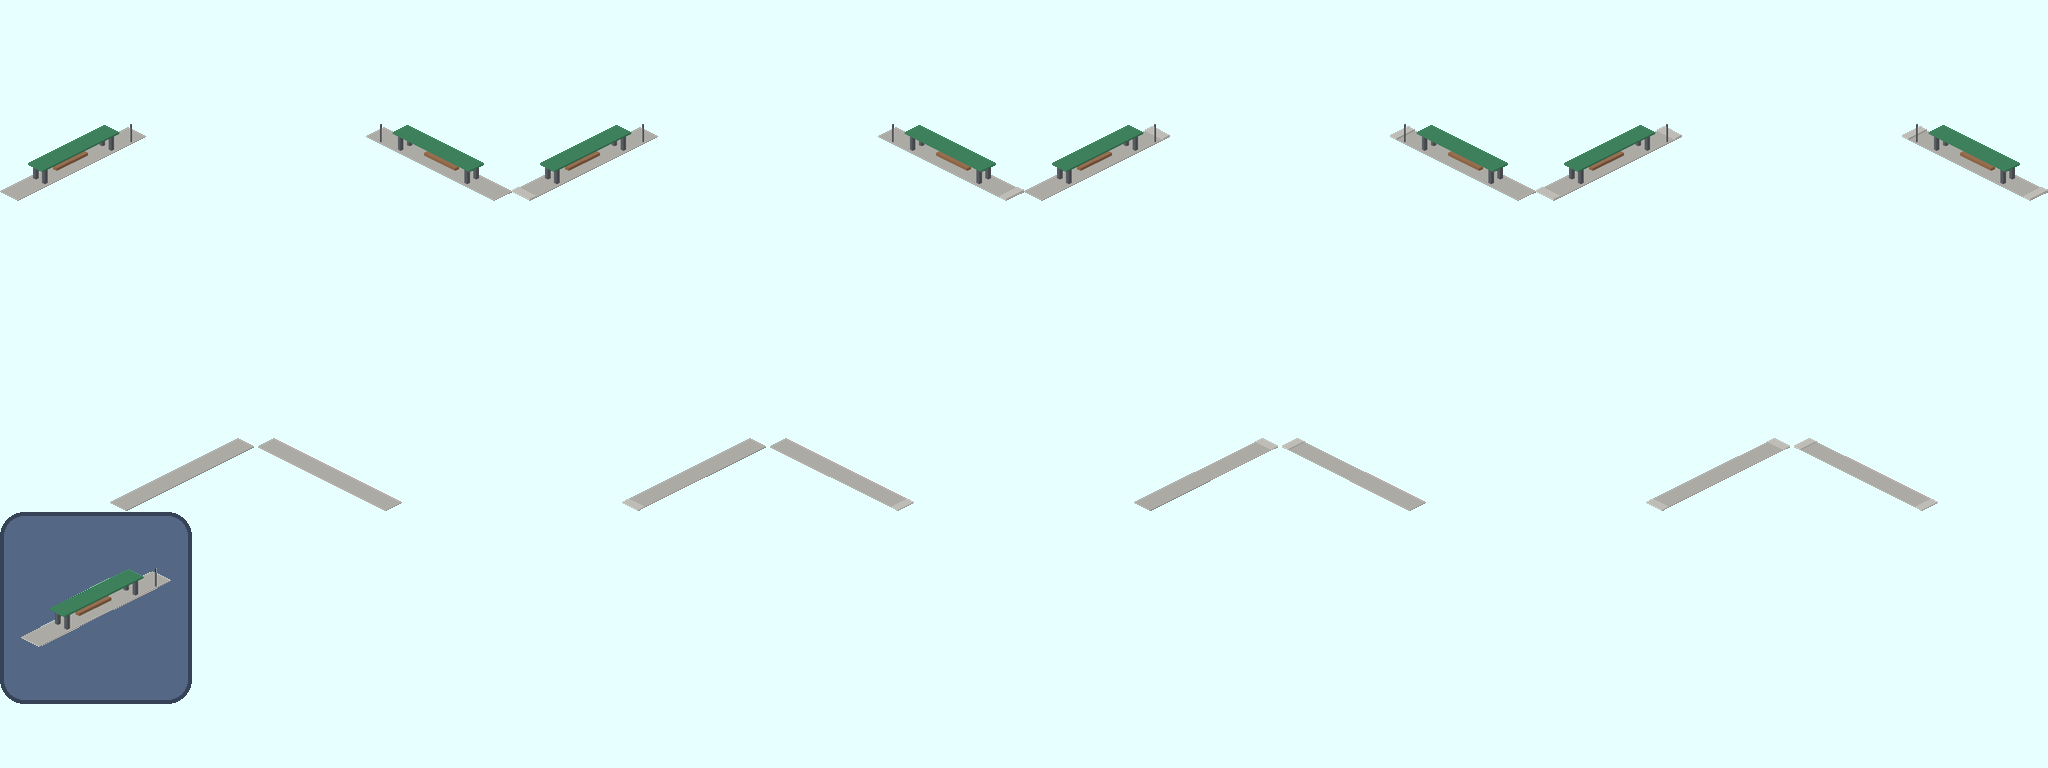
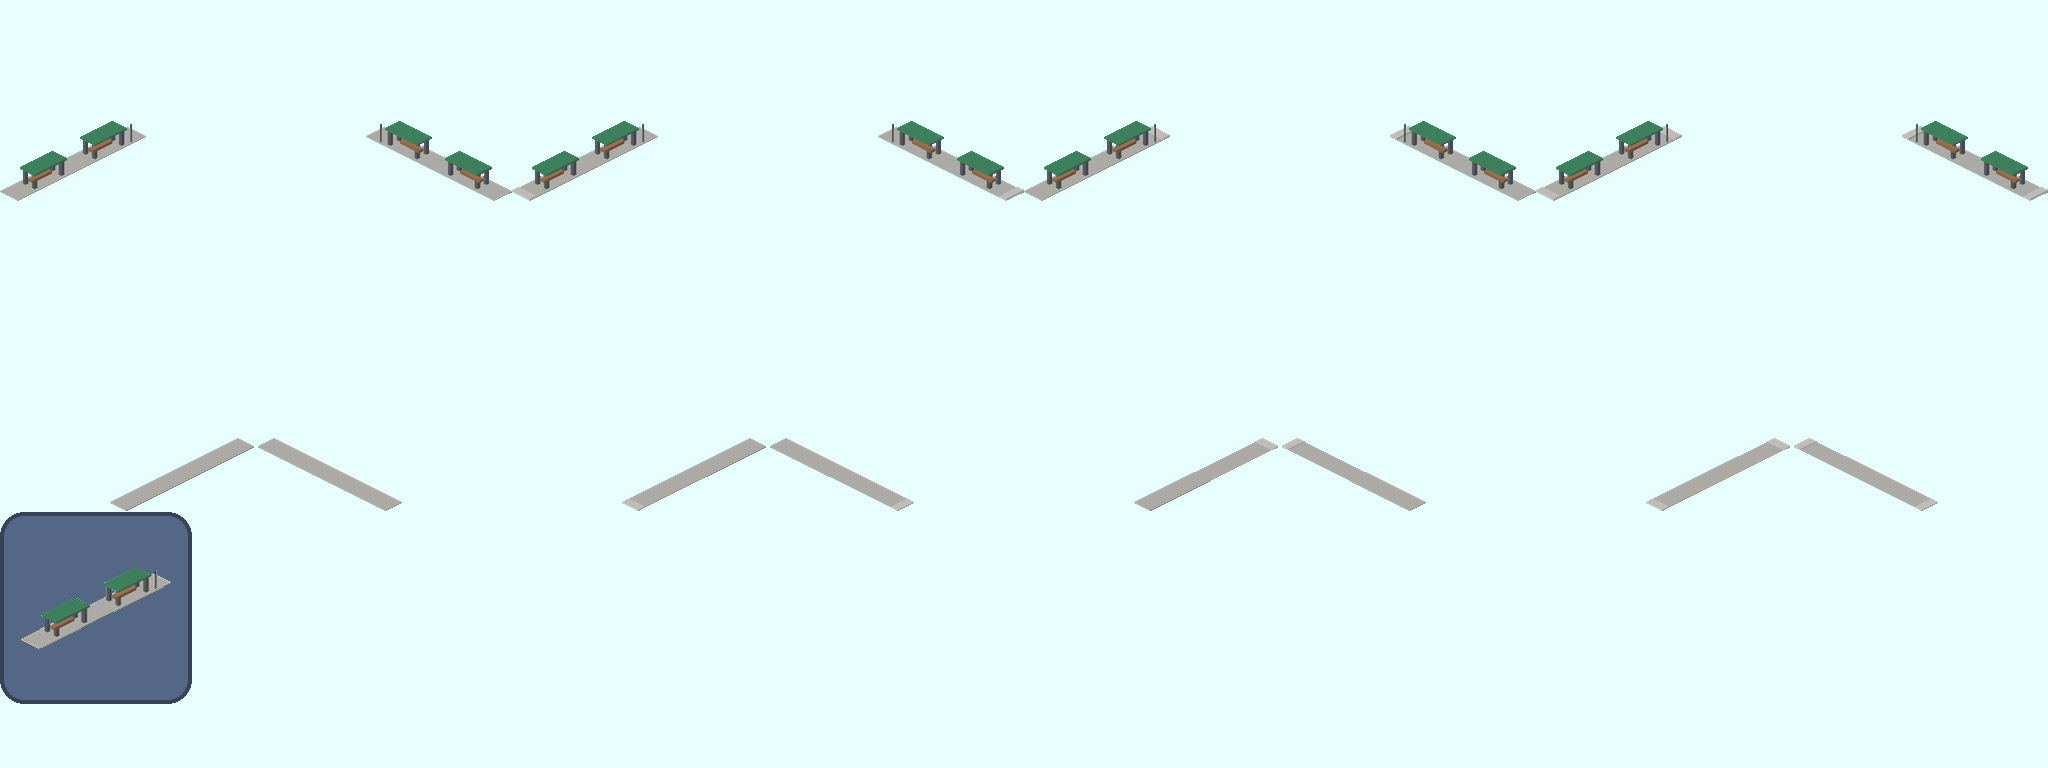
路面電車の停留所の屋根を 2 つに分け、架線の柱の所を空ける (#195) (#210)
* 路面電車の停留所の屋根を 2 つに分け、架線の柱の所を空ける (#195)

* 停留所の検査に屋根が柱の両側にあることを足し、空ける範囲の書き方を直す (#195)

* 停留所の直しの記録に、ツールバーと路面電車の画面を足す (#195)

---------

diff --git a/tools/test_stations.py b/tools/test_stations.py
@@ -111,6 +111,40 @@ class StationTest(unittest.TestCase):
                                 bad.append((x, y, round(c, 3)))
                     self.assertEqual(bad[:5], [], f"{sheet}: {row} 行 {col} 列が道路に掛かる（{len(bad)} 画素）")
 
+    def test_tram_stop_clear_of_catenary_pole(self):
+        """路面電車の停留所の絵は、画面で架線の柱の列に、歩道より高い画素を置かない（#195）。
+
+        柱は AMI の ami_tram_catenary（addons/ami の catenary_parts.py の TRAM_CAT_POLE_U 4.2・CAT_POLE_S 0.35。
+        1 タイルは 10）: 升の中央 a = 0.5、軌道の中心から 0.42 タイル奥（c = 0.08）、太さ 0.035。画面の横位置は
+        |a - c| = 0.385〜0.455 タイル（128px 倍）の列で、偶数の向き（NS）はセルの中央の左、奇数（EW）は右。
+        AMI の版で柱が動いたら、ここの値も直す。
+        """
+        from PIL import Image
+        near, far = 0.5 - 0.08 - 0.035, 0.5 - 0.08 + 0.035
+        sheet = os.path.join(ROOT, "objects", "station", "tram_stops", "tram_stop.png")
+        with Image.open(sheet) as im:
+            px = im.convert("RGB").load()
+        for row in (0, 1):
+            for col in range(LAYOUTS):
+                side = -1 if col % 2 == 0 else 1
+                bad = []
+                for x in range(256):
+                    k = (x + 0.5 - 128) / 128 * side
+                    if not near <= k <= far:
+                        continue
+                    top = 128 + k * 64 - 3  # 歩道（高さ 0.15m）の奥の端の画面の y。少し上まで許す
+                    bad += [(x, y) for y in range(int(top)) if px[col * 256 + x, row * 256 + y] != (231, 255, 255)]
+                self.assertEqual(bad[:5], [], f"{sheet}: {row} 行 {col} 列が架線の柱の列に掛かる（{len(bad)} 画素）")
+        # 屋根を消して通ることが無いように、後ろの絵は柱の列の左右の両方に屋根の色の面がある（屋根の上面の色は ROOF_TRAM）
+        spec = importlib.util.spec_from_file_location(
+            "tram_draw_stops", os.path.join(ROOT, "objects", "station", "tram_stops", "draw_stops.py"))
+        ds = importlib.util.module_from_spec(spec)
+        spec.loader.exec_module(ds)
+        for col in range(LAYOUTS):
+            side = -1 if col % 2 == 0 else 1
+            ks = [(x + 0.5 - 128) / 128 * side for x in range(256) for y in range(256) if px[col * 256 + x, y] == ds.ROOF_TRAM]
+            self.assertTrue(any(k < near for k in ks) and any(k > far for k in ks), f"{sheet}: {col} 列の屋根が柱の両側に無い")
+
     def test_bus_stop_back_edge(self):
         """バス停の後ろの絵の歩道は、タイルの端（c = 0）の近くまである（#139）。
 

diff --git a/docs/records/2026-11-27_tram195-screens/scene.py b/docs/records/2026-11-27_tram195-screens/scene.py
@@ -1,0 +1,59 @@
+"""#195: 路面電車の停留所と架線の柱を、架線あり・なし、東西・南北、土の上・道路の上で撮る。MIT License。
+
+使い方（リポジトリの直下で。<build のフォルダ> は pak/ を持つ組んだフォルダ）:
+    python -X utf8 docs/records/2026-11-27_tram195-screens/scene.py <本体の検証環境> <MCP のポート> <build のフォルダ> <出力のフォルダ>
+"""
+import os
+import sys
+import time
+
+sys.path.insert(0, os.path.abspath("tools"))
+from game import Game  # noqa: E402
+
+env, port, build, out = sys.argv[1], int(sys.argv[2]), os.path.abspath(sys.argv[3]), os.path.abspath(sys.argv[4])
+os.makedirs(out, exist_ok=True)
+OX, OY = 60, 60
+RUN = (3, 4, 5)  # 3 升の連なり
+SINGLE = 10      # 単独の升
+# 名前: (原点からのずれ x, y, 軸, 道路の上か, 架線)
+LINES = {}
+for cat, dy in (("cat", 0), ("nocat", 40)):
+    LINES[f"{cat}_dirt_ew"] = (0, dy, "ew", False, cat == "cat")
+    LINES[f"{cat}_dirt_ns"] = (22, dy, "ns", False, cat == "cat")
+    LINES[f"{cat}_road_ew"] = (0, dy + 22, "ew", True, cat == "cat")
+    LINES[f"{cat}_road_ns"] = (34, dy + 4, "ns", True, cat == "cat")
+
+
+def tile(x, y, axis, i):
+    return (x + i, y) if axis == "ew" else (x, y + i)
+
+
+with Game(env, "flat_512_left_v64", port, build=build, simuconf_extra=["show_names = 0"]) as g:
+    def sq(label, code):
+        r = g.sq(f'try {{ {code} }} catch (e) {{ return "error " + e }}')
+        if r not in ("None", "", "null", "true"):
+            print(f"[log] {label}: {r}", flush=True)
+
+    def pos(p):
+        return f"coord3d({OX + p[0]},{OY + p[1]},0)"
+
+    for name, (x, y, axis, road, cat) in LINES.items():
+        a, b = tile(x, y, axis, 0), tile(x, y, axis, 14)
+        for way in (["ami_road_local"] if road else []) + ["ami_tram"]:
+            sq(name + " " + way, f'return command_x.build_way(player_x(0), {pos(a)}, {pos(b)}, way_desc_x("{way}"), true)')
+        if cat:
+            sq(name + " cat", f'return command_x.build_wayobj(player_x(0), {pos(a)}, {pos(b)}, wayobj_desc_x("ami_tram_catenary"))')
+        for i in RUN + (SINGLE,):
+            p = tile(x, y, axis, i)
+            r = g.station(OX + p[0], OY + p[1], "pak256_tram_stop")
+            if r not in ("None", "", "null"):
+                print(f"[log] {name} stop {p}: {r}", flush=True)
+    g.settle(25)
+    for name, (x, y, axis, road, cat) in LINES.items():
+        for view, i in (("run", 4), ("single", SINGLE)):
+            p = tile(x, y, axis, i)
+            g.sq(f"gui.close_all_windows(); gui.set_zoom(3); gui.jump({pos(p)}); return 1")
+            time.sleep(1.5)
+            g.capture(os.path.join(out, f"{name}_{view}.png"))
+    if g.left_over:
+        sys.exit(1)

diff --git a/docs/records/2026-11-27_tram195-screens/montage.py b/docs/records/2026-11-27_tram195-screens/montage.py
@@ -1,0 +1,54 @@
+"""#195: scene.py で撮った前後の画面を、停留所のまわりを切り抜いて 2 倍にして並べる。MIT License。
+
+    python -X utf8 docs/records/2026-11-27_tram195-screens/montage.py <前の撮影のフォルダ> <後の撮影のフォルダ> <出力のフォルダ>
+"""
+import os
+import sys
+
+from PIL import Image, ImageDraw, ImageFont
+
+before, after, out = sys.argv[1:4]
+os.makedirs(out, exist_ok=True)
+# 飛んだ升の停留所が写る画面の位置（軸ごと。撮った画面から読んだ値。1600x900）
+CENTER = {"ew": (950, 510), "ns": (845, 510)}
+HALF = (230, 160)    # 切り抜きの半分の大きさ（等倍の px）
+SCALE = 2
+FONT = ImageFont.truetype("C:/Windows/Fonts/meiryo.ttc", 22)
+# 区画の原点（scene.py の LINES。ゲームの座標は 60 を足す）
+SITES = {
+    "dirt_ew": "土の上・東西", "dirt_ns": "土の上・南北", "road_ew": "道路の上・東西", "road_ns": "道路の上・南北",
+}
+ORIGIN = {"dirt_ew": (0, 0, "ew"), "dirt_ns": (22, 0, "ns"), "road_ew": (0, 22, "ew"), "road_ns": (34, 4, "ns")}
+
+
+def label(site, view, cat):
+    x, y, axis = ORIGIN[site]
+    if cat == "nocat":
+        y += 40
+    i = 4 if view == "run" else 10
+    pos = (60 + x + i, 60 + y) if axis == "ew" else (60 + x, 60 + y + i)
+    return f"{SITES[site]}・{'3 升の連なり' if view == 'run' else '単独の升'} ({pos[0]},{pos[1]})"
+
+
+def crop(path, axis):
+    cx, cy = CENTER[axis]
+    im = Image.open(path).convert("RGB").crop((cx - HALF[0], cy - HALF[1], cx + HALF[0], cy + HALF[1]))
+    return im.resize((im.width * SCALE, im.height * SCALE), Image.NEAREST)
+
+
+def sheet(cat, view, name):
+    w, h, bar = HALF[0] * 2 * SCALE, HALF[1] * 2 * SCALE, 36
+    im = Image.new("RGB", (w * 2 + 8, (h + bar) * len(SITES)), (0, 0, 0))
+    d = ImageDraw.Draw(im)
+    for r, site in enumerate(SITES):
+        for c, (folder, what) in enumerate(((before, "直す前"), (after, "直した後"))):
+            x, y = c * (w + 8), r * (h + bar)
+            d.text((x + 6, y + 4), f"{what}: {label(site, view, cat)}・温暖・2 倍", font=FONT, fill=(255, 220, 90))
+            im.paste(crop(os.path.join(folder, f"{cat}_{site}_{view}.png"), ORIGIN[site][2]), (x, y + bar))
+    im.save(os.path.join(out, name), optimize=True)
+
+
+sheet("cat", "run", "1_catenary_run.png")
+sheet("cat", "single", "2_catenary_single.png")
+sheet("nocat", "run", "3_no_catenary_run.png")
+sheet("nocat", "single", "4_no_catenary_single.png")

diff --git a/objects/station/tram_stops/draw_stops.py b/objects/station/tram_stops/draw_stops.py
@@ -22,14 +22,20 @@ _spec.loader.exec_module(rs)
 ROOF_TRAM = (62, 128, 92)
 
 
+# 屋根 2 つ（軸の向き a の範囲）。間は AMI の路面軌道の架線の柱が立つ所（#195。a = 0.5・c = 0.08）。
+# 画面で柱に重ならないように、柱の太さより広く空ける（docs/stations.md の「路面電車の停留所」）
+ROOFS = ((0.14, 0.39), (0.61, 0.86))
+
+
 def tram_back(cv, axis, s, n):
     rs.platform(cv, axis, s, n, 0.15, rs.CONCRETE, rs.CONCRETE, rs.BUS_FAR)  # 奥の歩道（乗り場）
     c0, c1 = 0.030, 0.120
-    for a in (0.24, 0.76):  # 柱 4 本。バス停より長い屋根
-        for c in (c0, c1 - 0.02):
-            rs.box_a_c(cv, axis, a - 0.01, a + 0.01, c, c + 0.02, 0.15, 2.6, rs.POST, rs.POST)
-    rs.box_a_c(cv, axis, 0.38, 0.62, c0 + 0.005, c0 + 0.035, 0.15, 0.6, (140, 100, 70), (150, 110, 80))  # ベンチ
-    rs.box_a_c(cv, axis, 0.20, 0.80, c0 - 0.012, c1 + 0.012, 2.6, 2.9, ROOF_TRAM, ROOF_TRAM)  # 屋根
+    for a0, a1 in ROOFS:  # 奥（a が小さい側）から描く
+        for a in (a0 + 0.02, a1 - 0.02):  # 柱 4 本
+            for c in (c0, c1 - 0.02):
+                rs.box_a_c(cv, axis, a - 0.01, a + 0.01, c, c + 0.02, 0.15, 2.6, rs.POST, rs.POST)
+        rs.box_a_c(cv, axis, a0 + 0.05, a1 - 0.05, c0 + 0.005, c0 + 0.035, 0.15, 0.6, (140, 100, 70), (150, 110, 80))  # ベンチ
+        rs.box_a_c(cv, axis, a0, a1, c0 - 0.012, c1 + 0.012, 2.6, 2.9, ROOF_TRAM, ROOF_TRAM)  # 屋根
     rs.box_a_c(cv, axis, 0.10, 0.105, 0.125, 0.130, 0.15, 3.2, rs.POST, rs.SIGN)  # 停留所の標識
 
 
@@ -37,7 +43,7 @@ STOPS = {
     "tram_stop": dict(
         name="pak256_tram_stop", back=tram_back, front=rs.near_walk,
         dat={"waytype": "tram_track", "enables_pax": 1, "level": 2, "intro_year": 1900},
-        note="路面電車の停留所。旅客。奥の側に緑の屋根の待合（高さ 2.9m）のある乗り場、手前の側に低い歩道",
+        note="路面電車の停留所。旅客。奥の側に緑の屋根の待合（高さ 2.9m）2 つのある乗り場（間は架線の柱の所）、手前の側に低い歩道",
     ),
 }
 

diff --git a/docs/records/2026-11-27_tram195-screens/montage_run.py b/docs/records/2026-11-27_tram195-screens/montage_run.py
@@ -1,0 +1,30 @@
+"""#195: 直した後のツールバー（toolbar.py）と、路面電車が停留所に来た画面（tools/vehicle_check/tram_run.py）を 1 枚に並べる。MIT License。
+
+    python -X utf8 docs/records/2026-11-27_tram195-screens/montage_run.py <toolbar.py の PNG> <tram_run.py の出力のフォルダ> <出力の PNG>
+"""
+import os
+import sys
+
+from PIL import Image, ImageDraw, ImageFont
+
+toolbar, run, out = sys.argv[1:4]
+FONT = ImageFont.truetype("C:/Windows/Fonts/meiryo.ttc", 22)
+# (見出し, 画像, 切り抜き（1600x900 の画面の px）)。どれも 2 倍にする
+PARTS = (
+    ("路面電車のツールバー（右下の端が停留所の道具の絵）・2 倍", toolbar, (432, 56, 872, 180)),
+    ("専用の軌道の停留所に来た路面電車（架線あり）・温暖・2 倍", os.path.join(run, "own_stop_0.png"), (620, 440, 1060, 700)),
+    ("道路の上の停留所に来た路面電車（架線あり）・温暖・2 倍", os.path.join(run, "road_stop_0.png"), (860, 480, 1300, 740)),
+)
+crops = []
+for title, path, box in PARTS:
+    im = Image.open(path).convert("RGB").crop(box)
+    crops.append((title, im.resize((im.width * 2, im.height * 2), Image.NEAREST)))
+BAR = 36
+sheet = Image.new("RGB", (max(c.width for _, c in crops), sum(c.height + BAR for _, c in crops)), (0, 0, 0))
+d = ImageDraw.Draw(sheet)
+y = 0
+for title, c in crops:
+    d.text((6, y + 4), title, font=FONT, fill=(255, 220, 90))
+    sheet.paste(c, (0, y + BAR))
+    y += c.height + BAR
+sheet.save(out, optimize=True)

diff --git a/docs/records/2026-11-27_tram195-screens/toolbar.py b/docs/records/2026-11-27_tram195-screens/toolbar.py
@@ -1,0 +1,20 @@
+"""#195: 路面電車のツールバー（停留所の道具の絵）を撮る。MIT License。
+
+    python -X utf8 docs/records/2026-11-27_tram195-screens/toolbar.py <本体の検証環境> <MCP のポート> <build のフォルダ> <出力の PNG>
+
+上の帯の路面電車のボタンの位置（x = 312）は、1600x900 の画面の物（#189 の toolbar.py と同じ）。
+"""
+import os
+import sys
+import time
+
+sys.path.insert(0, os.path.abspath("tools"))
+from game import Game  # noqa: E402
+
+env, port, build, out = sys.argv[1], int(sys.argv[2]), os.path.abspath(sys.argv[3]), os.path.abspath(sys.argv[4])
+with Game(env, "flat_512_left_v64", port, build=build) as g:
+    g.sq("gui.close_all_windows(); gui.click(312, 24); return 1")
+    time.sleep(2)
+    g.capture(out)
+    if g.left_over:
+        sys.exit(1)

diff --git a/docs/records/2026-11-27_tram195.md b/docs/records/2026-11-27_tram195.md
@@ -1,0 +1,40 @@
+# 路面電車の停留所の上屋を架線の柱が貫く（2026-11-27）
+
+[#195](https://github.com/128-bit-net/pak256/issues/195)。
+
+## 原因
+
+AMI の `ami_tram_catenary` の柱は、直線の升の中央（軸の向き a = 0.5）、軌道の中心から 0.42 タイル奥（c = 0.08）に立つ。停留所の待合の屋根は a = 0.20〜0.80・c = 0.018〜0.132 で、その真ん中を柱が通っていた。南北と東西の両方で同じ。ゲームでは柱が屋根の上に描かれた。
+
+## 直し方
+
+停留所の側で直した。屋根を a = 0.14〜0.39 と 0.61〜0.86 の 2 つに分け、柱の列を空けた。ベンチと柱も屋根ごとに置いた（`objects/station/tram_stops/draw_stops.py` の `ROOFS`）。AMI の曲がりの柱の件（[AMI #393](https://github.com/128na/simutrans-addon-dev/issues/393)）は直線の升の柱を変えない予定で、停留所は直線の升にしか置けない。
+
+## 撮り方
+
+OTRP v64（`addon_check` の写し）、`flat_512_left_v64`、温暖、昼、`gui.set_zoom(3)`（等倍）。直す前は main の `38e33c3` の絵、後はこの直しの絵。AMI は同じ `ami-256-alpha.9`。場面は [scene.py](2026-11-27_tram195-screens/scene.py)（土の上と道路の上、南北と東西、3 升の連なりと単独の升、架線ありとなし）、並べるのは [montage.py](2026-11-27_tram195-screens/montage.py)。
+
+## 画面
+
+架線あり。3 升の連なりと単独の升。
+
+![架線あり・3 升](2026-11-27_tram195-screens/1_catenary_run.png)
+
+![架線あり・単独](2026-11-27_tram195-screens/2_catenary_single.png)
+
+架線なし。
+
+![架線なし・3 升](2026-11-27_tram195-screens/3_no_catenary_run.png)
+
+![架線なし・単独](2026-11-27_tram195-screens/4_no_catenary_single.png)
+
+## ツールバーと路面電車
+
+路面電車のツールバーに停留所の道具の絵が出た（[toolbar.py](2026-11-27_tram195-screens/toolbar.py)）。`tools/vehicle_check/tram_run.py --catenary 1 --run 20` で、路面電車が道路の上と専用の軌道の停留所を回り、2 つの停留所の出発の数が 4 になった。画像は [montage_run.py](2026-11-27_tram195-screens/montage_run.py) で並べた。
+
+![ツールバーと路面電車](2026-11-27_tram195-screens/5_toolbar_and_tram.png)
+
+## 確かめていないこと
+
+- 本家 125.0.1、右側通行。
+- 降雪（停留所の絵に雪の絵は無く、同じ絵が出る見込み）。

diff --git a/docs/stations.md b/docs/stations.md
@@ -119,7 +119,8 @@ AMI は停留所を外し（AMI #305）、pak256 は `ami-256-alpha.6`（[#111](
 | `pak256_tram_stop` | `building` | `stop` | `tram_track` | 旅客（`enables_pax`。郵便・貨物は扱わない） | 路面電車の停留所 / Tram Stop |
 
 - 1x1 タイル、`level` 2、登場年 1900（仮）、`allow_underground` 2、`noinfo` 1。建設費・維持費は書いていない（本体の既定）。
-- 奥の側に緑の屋根の待合（高さ 2.9m）のある乗り場、手前の側に低い歩道。設備は道路の停留所と同じく白線の外に置くので、道路に敷いた軌道でも土の上の専用の軌道でも使う（`tools/test_stations.py` の白線の検査は `tram_track` の停留所にも掛かる）。
+- 奥の側に緑の屋根の待合（高さ 2.9m）2 つのある乗り場、手前の側に低い歩道。設備は道路の停留所と同じく白線の外に置くので、道路に敷いた軌道でも土の上の専用の軌道でも使う（`tools/test_stations.py` の白線の検査は `tram_track` の停留所にも掛かる）。
+- 架線の柱の所を空ける（[#195](https://github.com/128-bit-net/pak256/issues/195)）。AMI の路面軌道の架線（`ami_tram_catenary`）の柱は、直線の升の中央（軸の向き a = 0.5）、奥の側の c = 0.08 に、太さ 0.035 タイルで地面から立つ（AMI の `TRAM_CAT_POLE_U` 4.2・`CAT_POLE_S` 0.35、1 タイル 10。2026-11-27 に AMI の `catenary_parts.py` を読み、ゲームで撮って確かめた）。待合の屋根・柱・ベンチは a = 0.39〜0.61 に置かない。画面で柱に重なるかは a − c で決まり（柱の列は a − c = 0.385〜0.455）、この範囲を空ければ奥の帯（c = 0.018〜0.132）のどこに置いても重ならない。`tools/test_stations.py` の `test_tram_stop_clear_of_catenary_pole` が検査する。AMI の版を上げて柱の位置が動いたら、`draw_stops.py` の `ROOFS` と検査の値を直して撮り直す（[記録](records/2026-11-27_tram195.md)）。
 - 向きの絵は下の「向きの絵」と同じ並び。置くのは直線の軌道の升だけ（交差する道の升には置けない。街の道がつながった升に置こうとすると `No through station here!` になった）。
 - ゲームでの確かめは [記録](records/2026-11-26_tram.md)。
 
